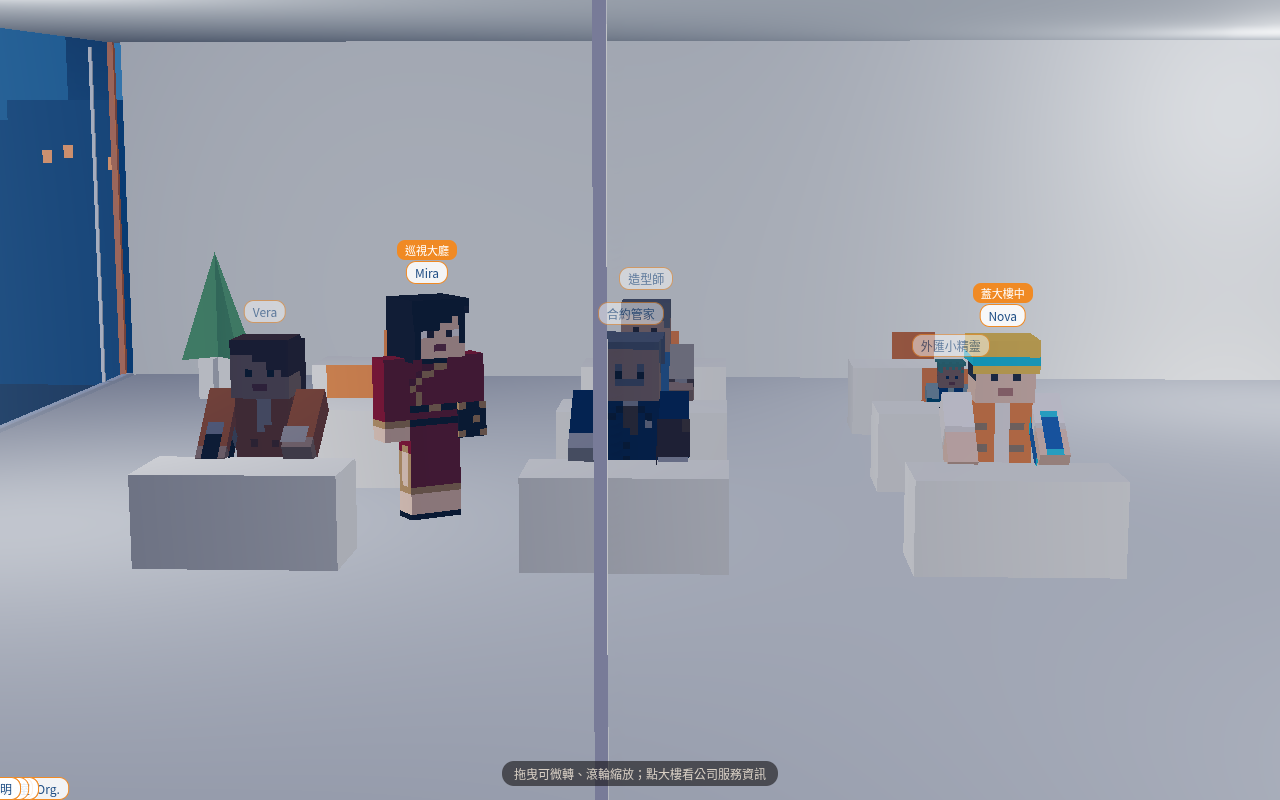
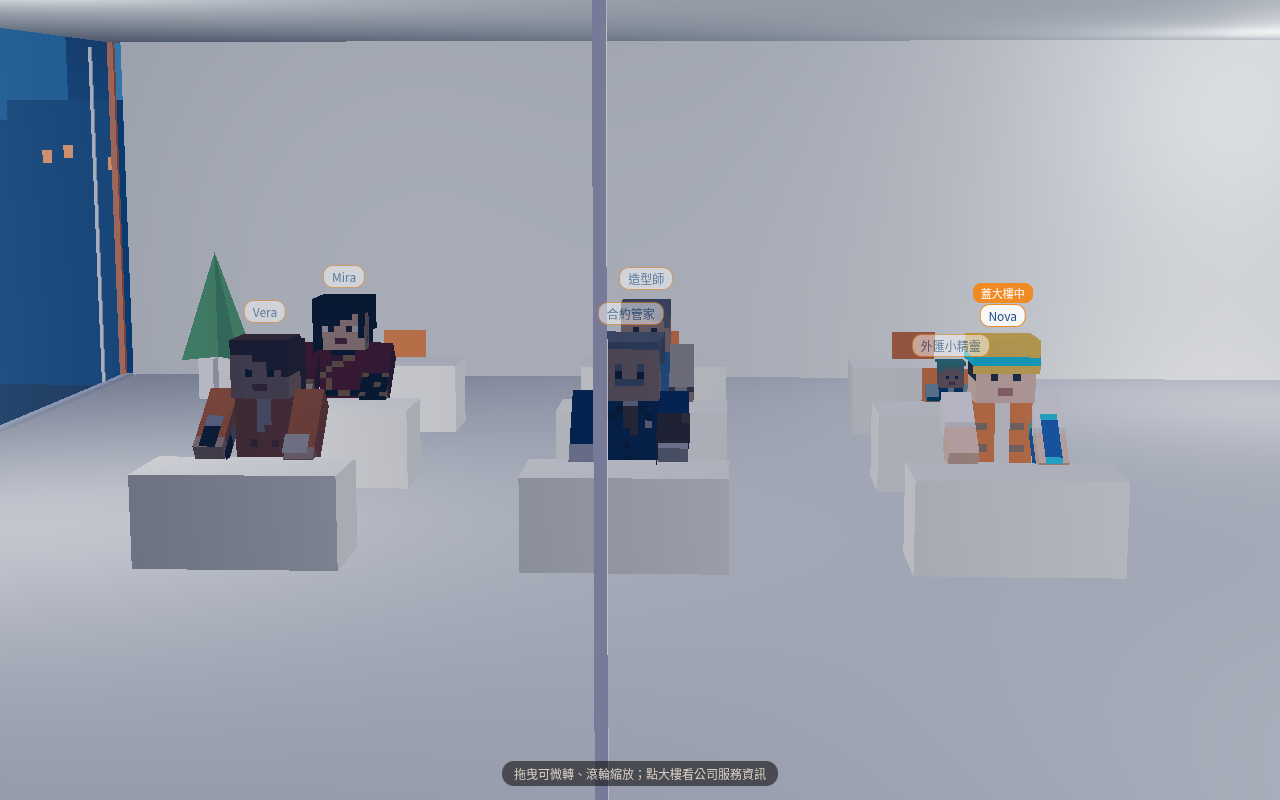
P007: fix piled name tags (guard 2F/4F residents without bubble; tags hidden until positioned); gate ?mock behind ?shot; live_status.png from real feed

diff --git a/site/index.html b/site/index.html
@@ -9,8 +9,8 @@
 #info button{background:none;border:0;color:#d8cfc4;font-size:18px;cursor:pointer}#info .b{padding:12px 16px;font-size:14px;line-height:1.7}
 #info .ex{display:inline-block;font-size:12px;color:#1c1a1c;background:#E9C77B;border-radius:6px;padding:1px 8px;margin-bottom:8px}
 body.nogl #hint{display:none}
-.bub{position:absolute;transform:translate(-50%,-100%);padding:2px 8px;border-radius:8px;background:#F08A24;color:#fff;font-size:11px;white-space:nowrap;pointer-events:none;z-index:4}
-.ntag{position:absolute;transform:translate(-50%,-100%);padding:2px 8px;border-radius:10px;background:rgba(255,255,255,.88);color:#1F4E85;border:1px solid #F08A24;font-size:12px;white-space:nowrap;pointer-events:none;z-index:3}</style></head><body>
+.bub{position:absolute;transform:translate(-50%,-100%);padding:2px 8px;border-radius:8px;background:#F08A24;color:#fff;font-size:11px;white-space:nowrap;pointer-events:none;z-index:4;display:none}
+.ntag{position:absolute;transform:translate(-50%,-100%);padding:2px 8px;border-radius:10px;background:rgba(255,255,255,.88);color:#1F4E85;border:1px solid #F08A24;font-size:12px;white-space:nowrap;pointer-events:none;z-index:3;display:none}</style></head><body>
 <div id="three"></div><div id="hint">拖曳可微轉、滾輪縮放；點大樓看公司服務資訊</div>
 <div id="info" role="dialog"><h2>公司服務資訊<button id="ix" aria-label="關閉">×</button></h2><div class="b">
 <span class="ex">範例文字・待填入</span>
@@ -337,8 +337,8 @@ function people(dt, t) { PEOPLE.concat(RES).forEach((p, i) => { let sw = 0;
 const tv3 = new THREE.Vector3(); let LYSYNC = null;
 function focusFid() { let best = null, by = -1e9; Object.keys(floorY).forEach(f => { const y = floorY[f]; if (y <= controls.target.y + .3 && y > by) { by = y; best = f; } }); return best; }
 function tags() { if (LYSYNC) LYSYNC(); const ff = focusFid(); RES.forEach(p => { tv3.set(p.x, p.y + (p.seat ? .5 + 1.3 * p.sc : 2.05 * p.sc), p.z); const dist = camera.position.distanceTo(tv3); tv3.project(camera);
-  const show = dist < 45 && p.fid === ff && (SHOT !== 'close' || true) && tv3.z < 1; p.tag.style.display = show ? '' : 'none'; if (show) { p.tag.style.left = ((tv3.x + 1) / 2 * box.clientWidth) + 'px'; p.tag.style.top = ((1 - tv3.y) / 2 * box.clientHeight) + 'px'; }
-  p.tag.style.opacity = p.dim > .5 ? .55 : 1; const sb = show && p.bubT; p.bub.style.display = sb ? '' : 'none'; if (sb) { if (p.bub.textContent !== p.bubT) p.bub.textContent = p.bubT; p.bub.style.left = p.tag.style.left; p.bub.style.top = (parseFloat(p.tag.style.top) - 24) + 'px'; } }); }
+  const show = dist < 45 && p.fid === ff && (SHOT !== 'close' || true) && tv3.z < 1; p.tag.style.display = show ? 'block' : 'none'; if (show) { p.tag.style.left = ((tv3.x + 1) / 2 * box.clientWidth) + 'px'; p.tag.style.top = ((1 - tv3.y) / 2 * box.clientHeight) + 'px'; }
+  p.tag.style.opacity = p.dim > .5 ? .55 : 1; if (!p.bub) return; const sb = show && p.bubT; p.bub.style.display = sb ? 'block' : 'none'; if (sb) { if (p.bub.textContent !== p.bubT) p.bub.textContent = p.bubT; p.bub.style.left = p.tag.style.left; p.bub.style.top = (parseFloat(p.tag.style.top) - 24) + 'px'; } }); }
 
 const info = document.getElementById('info'); document.getElementById('ix').onclick = () => info.style.display = 'none';
 const ray = new THREE.Raycaster(), mv = new THREE.Vector2(); let down = null;

diff --git a/tools/tail.js b/tools/tail.js
@@ -98,8 +98,8 @@ function people(dt, t) { PEOPLE.concat(RES).forEach((p, i) => { let sw = 0;
 const tv3 = new THREE.Vector3(); let LYSYNC = null;
 function focusFid() { let best = null, by = -1e9; Object.keys(floorY).forEach(f => { const y = floorY[f]; if (y <= controls.target.y + .3 && y > by) { by = y; best = f; } }); return best; }
 function tags() { if (LYSYNC) LYSYNC(); const ff = focusFid(); RES.forEach(p => { tv3.set(p.x, p.y + (p.seat ? .5 + 1.3 * p.sc : 2.05 * p.sc), p.z); const dist = camera.position.distanceTo(tv3); tv3.project(camera);
-  const show = dist < 45 && p.fid === ff && (SHOT !== 'close' || true) && tv3.z < 1; p.tag.style.display = show ? '' : 'none'; if (show) { p.tag.style.left = ((tv3.x + 1) / 2 * box.clientWidth) + 'px'; p.tag.style.top = ((1 - tv3.y) / 2 * box.clientHeight) + 'px'; }
-  p.tag.style.opacity = p.dim > .5 ? .55 : 1; const sb = show && p.bubT; p.bub.style.display = sb ? '' : 'none'; if (sb) { if (p.bub.textContent !== p.bubT) p.bub.textContent = p.bubT; p.bub.style.left = p.tag.style.left; p.bub.style.top = (parseFloat(p.tag.style.top) - 24) + 'px'; } }); }
+  const show = dist < 45 && p.fid === ff && (SHOT !== 'close' || true) && tv3.z < 1; p.tag.style.display = show ? 'block' : 'none'; if (show) { p.tag.style.left = ((tv3.x + 1) / 2 * box.clientWidth) + 'px'; p.tag.style.top = ((1 - tv3.y) / 2 * box.clientHeight) + 'px'; }
+  p.tag.style.opacity = p.dim > .5 ? .55 : 1; if (!p.bub) return; const sb = show && p.bubT; p.bub.style.display = sb ? 'block' : 'none'; if (sb) { if (p.bub.textContent !== p.bubT) p.bub.textContent = p.bubT; p.bub.style.left = p.tag.style.left; p.bub.style.top = (parseFloat(p.tag.style.top) - 24) + 'px'; } }); }
 
 const info = document.getElementById('info'); document.getElementById('ix').onclick = () => info.style.display = 'none';
 const ray = new THREE.Raycaster(), mv = new THREE.Vector2(); let down = null;

diff --git a/site/status_poll.js b/site/status_poll.js
@@ -1,8 +1,8 @@
 // Polls the public state endpoint (plain GET, no custom headers -> no CORS preflight; Apps Script redirects to googleusercontent with ACAO:*).
 // Hands the list to the 3D scene (window.P7_applyStatus); characters change state gracefully there.
-// ?mock=live is a screenshot-only preview: fake data, nothing is sent anywhere.
+// ?shot=…&mock=live is a screenshot-only preview (ignored without ?shot): fake data, nothing is sent anywhere.
 (function () {
-  var C = window.P7_STATUS || {}, Q = new URLSearchParams(location.search), mock = Q.get('mock');
+  var C = window.P7_STATUS || {}, Q = new URLSearchParams(location.search), mock = Q.get('shot') ? Q.get('mock') : null;
   if (!mock && (!C.enabled || !C.url)) return;
   function ready(cb) { if (window.P7_applyStatus) cb(); else setTimeout(function () { ready(cb); }, 200); }
   if (mock) { var ids = ['mira', 'vera', 'stylist', 'contract', 'fx', 'nova'];

diff --git a/tools/gen.py b/tools/gen.py
@@ -38,8 +38,8 @@ html='''<!doctype html>
 #info button{background:none;border:0;color:#d8cfc4;font-size:18px;cursor:pointer}#info .b{padding:12px 16px;font-size:14px;line-height:1.7}
 #info .ex{display:inline-block;font-size:12px;color:#1c1a1c;background:#E9C77B;border-radius:6px;padding:1px 8px;margin-bottom:8px}
 body.nogl #hint{display:none}
-.bub{position:absolute;transform:translate(-50%,-100%);padding:2px 8px;border-radius:8px;background:#F08A24;color:#fff;font-size:11px;white-space:nowrap;pointer-events:none;z-index:4}
-.ntag{position:absolute;transform:translate(-50%,-100%);padding:2px 8px;border-radius:10px;background:rgba(255,255,255,.88);color:#1F4E85;border:1px solid #F08A24;font-size:12px;white-space:nowrap;pointer-events:none;z-index:3}</style></head><body>
+.bub{position:absolute;transform:translate(-50%,-100%);padding:2px 8px;border-radius:8px;background:#F08A24;color:#fff;font-size:11px;white-space:nowrap;pointer-events:none;z-index:4;display:none}
+.ntag{position:absolute;transform:translate(-50%,-100%);padding:2px 8px;border-radius:10px;background:rgba(255,255,255,.88);color:#1F4E85;border:1px solid #F08A24;font-size:12px;white-space:nowrap;pointer-events:none;z-index:3;display:none}</style></head><body>
 <div id="three"></div><div id="hint">拖曳可微轉、滾輪縮放；點大樓看公司服務資訊</div>
 <div id="info" role="dialog"><h2>公司服務資訊<button id="ix" aria-label="關閉">×</button></h2><div class="b">
 <span class="ex">範例文字・待填入</span>
